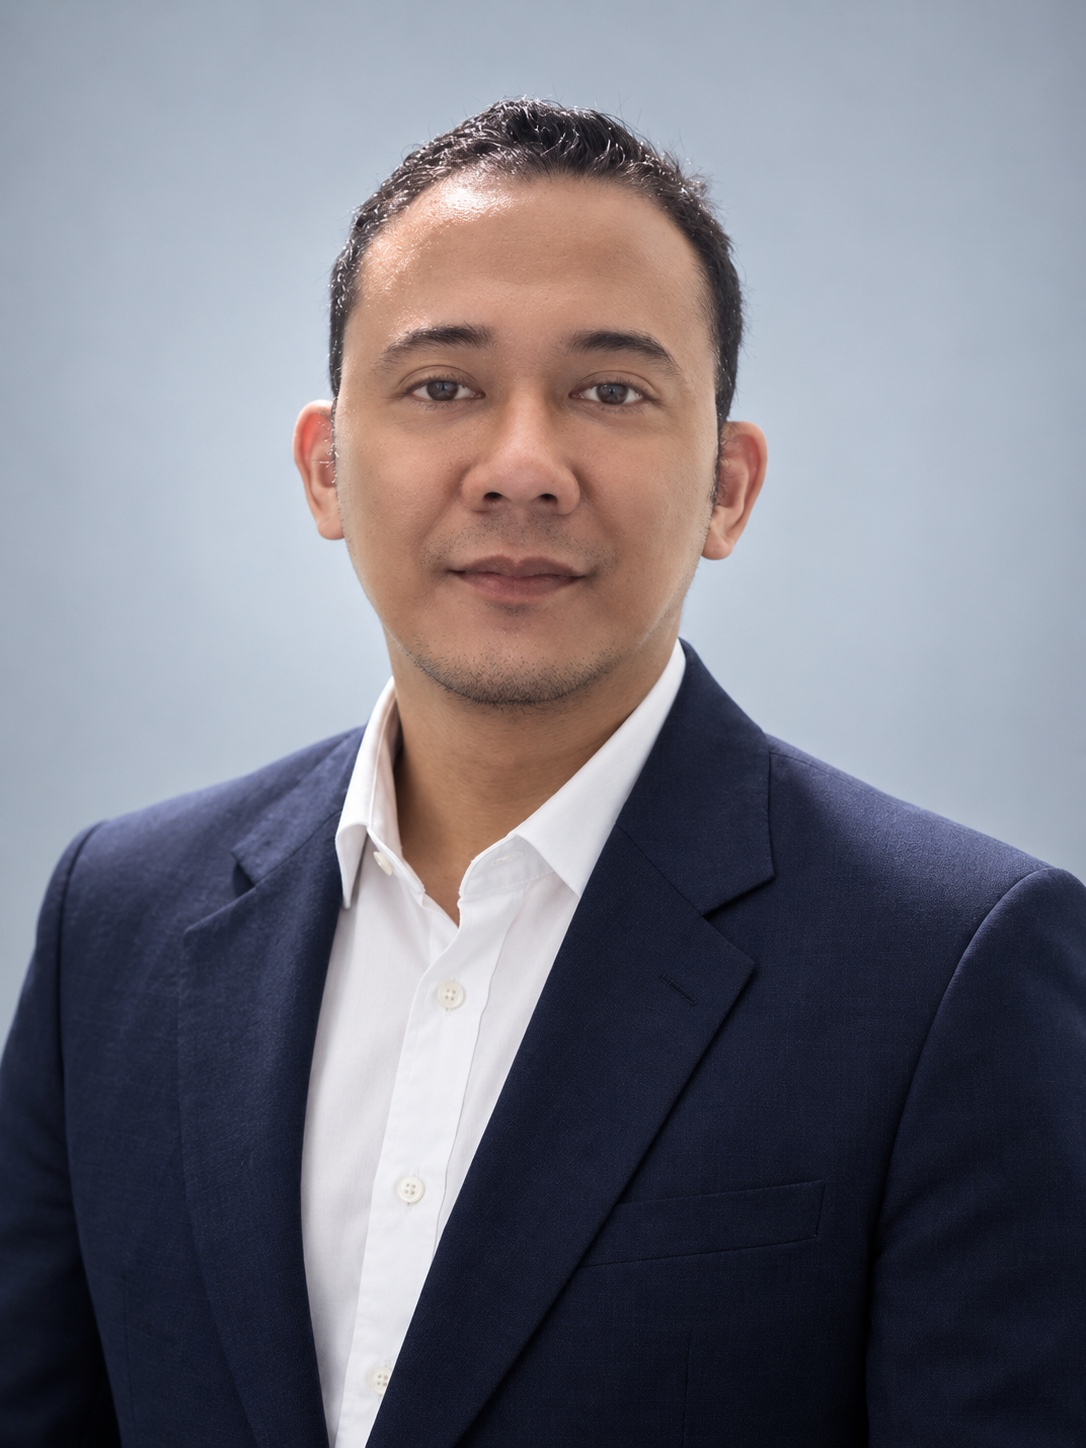
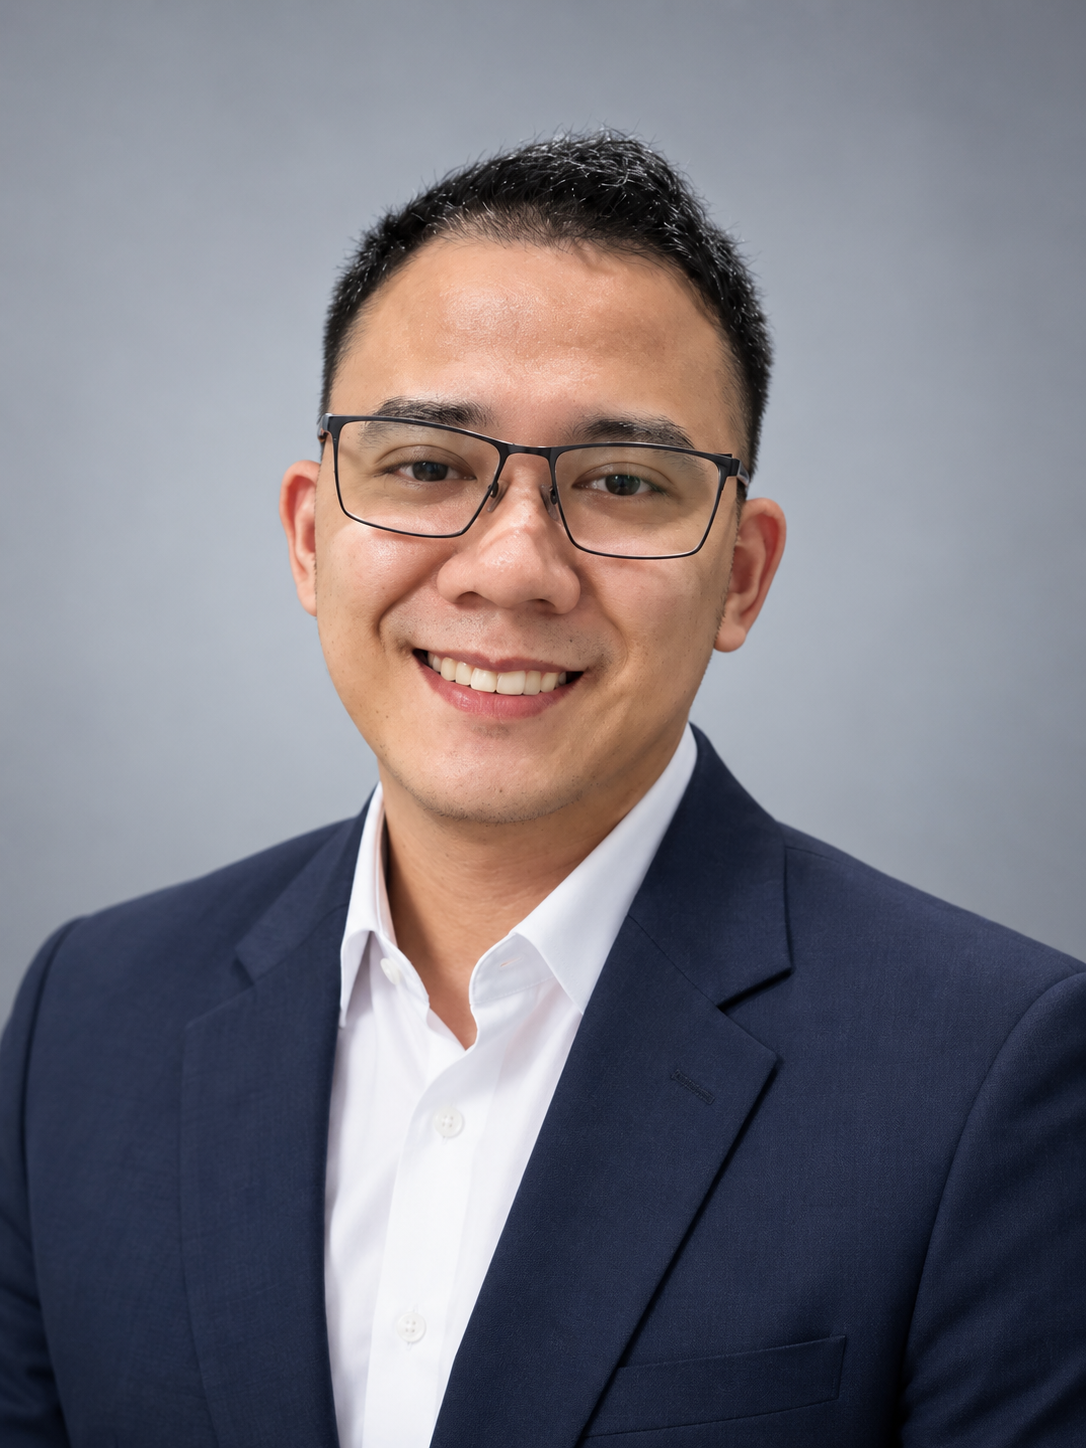
Improve portfolio design, content, testimonials, photo, and resume

diff --git a/index.html b/index.html
@@ -9,9 +9,28 @@
   <meta property="og:title" content="Jon Kevin Fanlo | Operations Virtual Assistant">
   <meta property="og:description" content="Business operations, customer support, CRM management, scheduling, sales support, and dependable operational follow-through.">
   <meta property="og:type" content="website">
+  <meta property="og:url" content="https://jonkfanlo.com/">
   <meta property="og:image" content="assets/jon-kevin-fanlo.png">
-  <title>Jon Kevin Fanlo | Operations Virtual Assistant</title>
+  <link rel="canonical" href="https://jonkfanlo.com/">
+  <title>Operations Virtual Assistant Philippines | Jon Kevin Fanlo</title>
   <link rel="stylesheet" href="style.css">
+  <script type="application/ld+json">
+  {
+    "@context": "https://schema.org",
+    "@type": "ProfilePage",
+    "mainEntity": {
+      "@type": "Person",
+      "name": "Jon Kevin Fanlo",
+      "url": "https://jonkfanlo.com/",
+      "image": "https://jonkfanlo.com/assets/jon-kevin-fanlo.png",
+      "jobTitle": "Operations Virtual Assistant",
+      "email": "mailto:jkfanlo.va@gmail.com",
+      "address": {"@type": "PostalAddress", "addressCountry": "PH", "addressRegion": "Cebu"},
+      "sameAs": ["https://www.linkedin.com/in/jon-k-fanlo1991/"],
+      "knowsAbout": ["Home service operations", "Customer support", "CRM management", "Scheduling and dispatch", "Sales support", "Invoicing"]
+    }
+  }
+  </script>
 </head>
 <body>
 <header class="site-header">
@@ -22,6 +41,7 @@
       <a href="#about">About</a>
       <a href="#services">Capabilities</a>
       <a href="#experience">Experience</a>
+      <a href="#testimonials">Testimonials</a>
       <a href="#parkmatic">Parkmatic</a>
       <a href="#contact">Contact</a>
     </nav>
@@ -33,11 +53,12 @@
     <div class="wrap hero-grid">
       <div>
         <p class="eyebrow">Operations Virtual Assistant · Business Operations · Customer Support</p>
-        <h1>I keep your operations organized, your customers supported, and your <span>sales moving.</span></h1>
-        <p class="hero-copy">I handle the day-to-day work that keeps service businesses running—customer communication, CRM management, warm-lead follow-up, scheduling, invoicing, sales support, and operational coordination—so owners can stay focused on growth.</p>
+        <h1>Operations Virtual Assistant in the Philippines who keeps <span>work moving.</span></h1>
+        <p class="hero-copy">I help service businesses stay organized through customer support, CRM management, scheduling, invoicing, warm-lead follow-up, and reliable operational coordination.</p>
         <div class="actions">
-          <a class="button button-primary" href="#experience">View my results</a>
-          <a class="button button-ghost" href="#contact">Let’s work together</a>
+          <a class="button button-primary" href="#experience">See what I’ve delivered</a>
+          <a class="button button-ghost" href="Jon_Kevin_Fanlo_Resume.pdf" download>Download résumé</a>
+          <a class="button button-text" href="#contact">Start a conversation →</a>
         </div>
       </div>
       <aside class="hero-profile" aria-label="Professional portrait of Jon Kevin Fanlo">
@@ -55,10 +76,8 @@
 
   <section class="metrics" aria-label="Selected professional results">
     <div class="wrap metric-grid">
-      <div class="metric"><strong>CAD $30.5K</strong><span>Tracked booked work supported at CleanerClean from July 31 to September 4, 2026</span></div>
+      <div class="metric"><strong>CAD $28.6K</strong><span>Gross booking activity documented across five weeks of CleanerClean records</span></div>
       <div class="metric"><strong>17%</strong><span>Customer retention achieved against an 8% target</span></div>
-      <div class="metric"><strong>35</strong><span>Team members supervised across three container yards</span></div>
-      <div class="metric"><strong>90%</strong><span>Fall-service contacts reached through calls, SMS, and email</span></div>
     </div>
   </section>
 
@@ -104,11 +123,30 @@
         <h2>Experience built around customers, coordination, and execution.</h2>
       </div>
       <div class="experience-list">
-        <article class="experience-item"><div class="role">Virtual Operations & Customer Service Assistant</div><div><h3>CleanerClean · Canada</h3><p>Supported daily operations across calls, email, SMS, lead follow-up, estimates, bookings, technician scheduling, invoices, payments, customer concerns, and CRM administration. Contributed to CAD $30,503 in tracked booked jobs from July 31 through September 4, 2026 while working across Housecall Pro, GoHighLevel, LeadConnector, ResponsiBid, HomeWorks CRM, and CrewCal.</p></div></article>
+        <article class="experience-item"><div class="role">Virtual Operations & Customer Service Assistant</div><div><h3>CleanerClean · Canada</h3><p>Supported daily operations across calls, email, SMS, lead follow-up, estimates, bookings, technician scheduling, invoices, payments, customer concerns, and CRM administration. Maintained daily records covering approximately CAD $28.6K in gross booking activity over five weeks and reached approximately 90% of the fall-service contact list through calls, SMS, and email. Worked across Housecall Pro, GoHighLevel, LeadConnector, ResponsiBid, HomeWorks CRM, and CrewCal.</p></div></article>
         <article class="experience-item"><div class="role">Virtual Operations & Customer Support</div><div><h3>Honey Windows / Northern Exteriors · Canada</h3><p>Managed customer communication, scheduling and dispatch support, reschedules, payment follow-ups, post-service feedback, CRM updates, reporting, SOP implementation, and file organization during a business transition.</p></div></article>
         <article class="experience-item"><div class="role">Customer Service & Retention Specialist</div><div><h3>Nations Info Corporation</h3><p>Handled approximately 40–50 inbound calls per shift and achieved a 17% retention rate against an 8% target by identifying customer needs, resolving concerns, and presenting appropriate retention options.</p></div></article>
-        <article class="experience-item"><div class="role">Container Yard Assistant Supervisor</div><div><h3>Diadem Terminal Maritime & Realty</h3><p>Supported operations across three container yards processing roughly 70–100 transactions per day and supervised about 35 personnel while coordinating yard workflow, equipment movement, staffing, documentation, and service requirements for major shipping-line clients.</p></div></article>
+        <article class="experience-item"><div class="role">Container Yard Assistant Supervisor</div><div><h3>Diadem Terminal Maritime & Realty</h3><p>Supervised approximately 35 personnel while supporting three container yards processing roughly 70–100 transactions per day. Coordinated yard workflow, equipment movement, staffing, documentation, and service requirements for major shipping-line clients.</p></div></article>
         <article class="experience-item"><div class="role">Sales Executive</div><div><h3>The Company Cebu</h3><p>Generated approximately PHP 5.1 million in sales in under six months and helped a newly opened coworking facility reach about 80% occupancy within four months through client acquisition, proposals, follow-up, and relationship management.</p></div></article>
+      </div>
+    </div>
+  </section>
+
+  <section id="testimonials" class="testimonials" aria-labelledby="testimonials-title">
+    <div class="wrap">
+      <div class="section-head">
+        <p class="eyebrow">Client feedback</p>
+        <h2 id="testimonials-title">Trusted by home-service business owners.</h2>
+      </div>
+      <div class="testimonial-grid">
+        <figure class="testimonial-card">
+          <blockquote>“You have been great to work with, bring a fantastic mindset, and have shown an eager willingness to learn.”</blockquote>
+          <figcaption><strong>Brad Elias</strong><span>Owner, CleanerClean</span></figcaption>
+        </figure>
+        <figure class="testimonial-card">
+          <blockquote>“You’re really great at what you do. You’re awesome.”</blockquote>
+          <figcaption><strong>Maxton Kernya</strong><span>Owner, Northern Exterior · Co-owner, Honey Windows</span></figcaption>
+        </figure>
       </div>
     </div>
   </section>
@@ -119,12 +157,14 @@
         <p class="eyebrow">Founder experience</p>
         <h2>Parkmatic Systems — hands-on business ownership and technical operations.</h2>
       </div>
-      <div class="parkmatic-grid">
+      <div class="parkmatic-grid compact-founder">
         <div class="parkmatic-story">
           <p class="role-kicker">Founder · Head of Operations | Mechanical & Vertical Parking Systems</p>
-          <p>Co-founded and operated Parkmatic Systems, a project-based business focused on the sales, installation, maintenance, and servicing of mechanical and vertical parking systems in the Philippines.</p>
-          <p>Although the business was lower-volume than a home-service operation, each project demanded significantly more technical and logistical coordination. I worked hands-on across sales, client consultation, quotations, procurement, transportation, site preparation, installation, commissioning, troubleshooting, maintenance, and after-sales support.</p>
-          <p>Projects involved heavy mechanical equipment weighing several tons, requiring careful coordination of technicians, suppliers, logistics providers, equipment, site requirements, safety, and customer expectations.</p>
+          <p>Co-founded and operated a project-based parking-systems business, managing client consultation, quotations, procurement, logistics, technicians, installation, commissioning, maintenance, and after-sales support.</p>
+          <details>
+            <summary>Read more about my founder experience</summary>
+            <p>Projects involved multi-ton mechanical equipment and required close coordination of suppliers, transportation, manpower, site readiness, safety requirements, technical troubleshooting, and customer expectations.</p>
+          </details>
         </div>
         <aside class="achievement-card">
           <p class="eyebrow">Featured achievement</p>
@@ -133,12 +173,6 @@
         </aside>
       </div>
 
-      <div class="responsibility-grid">
-        <article><h3>End-to-end ownership</h3><p>Managed projects from prospecting and sales through procurement, delivery, installation, commissioning, maintenance, and customer support.</p></article>
-        <article><h3>Technical operations</h3><p>Participated directly in installation, testing, troubleshooting, repair, and preventive maintenance of mechanical parking equipment.</p></article>
-        <article><h3>Technician development</h3><p>Helped train technicians through months of technical and hands-on preparation, with periodic retraining to maintain installation and maintenance competency.</p></article>
-        <article><h3>Heavy-equipment logistics</h3><p>Coordinated transportation, delivery schedules, manpower, equipment, supplier requirements, and site readiness for multi-ton systems.</p></article>
-      </div>
     </div>
   </section>
 
@@ -173,7 +207,8 @@
         <p>I’m open to long-term remote Operations VA, operations coordination, customer support, sales-support, and administrative roles across any time zone. My strength is organized follow-through, customer care, and operational execution rather than high-volume cold calling.</p>
       </div>
       <div class="contact-actions">
-        <a class="button button-primary" href="mailto:jkfanlo.va@gmail.com">Email me</a>
+        <a class="button button-primary" href="mailto:jkfanlo.va@gmail.com?subject=15-minute%20intro%20call">Request a 15-min intro call</a>
+        <a class="button button-ghost" href="Jon_Kevin_Fanlo_Resume.pdf" download>Download résumé</a>
         <a class="button button-ghost" href="https://www.linkedin.com/in/jon-k-fanlo1991/" target="_blank" rel="noopener">LinkedIn</a>
         <a class="button button-ghost" href="https://wa.me/639247519178" target="_blank" rel="noopener">WhatsApp</a>
       </div>

diff --git a/style.css b/style.css
@@ -76,6 +76,8 @@ a { color: inherit; }
 .button:hover { transform: translateY(-2px); }
 .button-primary { color: #071525; background: var(--cyan); box-shadow: 0 12px 28px rgba(52,199,216,.24); }
 .button-ghost { color: var(--white); border: 1px solid rgba(255,255,255,.35); }
+.button-text { min-height: 50px; padding-inline: 8px; color: #d8e5f4; }
+.button-text:hover { color: var(--white); }
 .availability { padding: 28px; background: rgba(255,255,255,.08); border: 1px solid rgba(255,255,255,.13); border-radius: var(--radius); box-shadow: var(--shadow); }
 .availability strong { display: block; margin-bottom: 8px; font-size: 1.25rem; }
 .availability p { margin: 0; color: #c7d7e8; }
@@ -95,7 +97,7 @@ section { padding: 92px 0; }
 .section-head p { margin: 0; color: var(--muted); }
 
 .metrics { margin-top: -32px; position: relative; z-index: 3; padding: 0; }
-.metric-grid { display: grid; grid-template-columns: repeat(4, 1fr); background: var(--white); border: 1px solid var(--line); border-radius: var(--radius); box-shadow: var(--shadow); overflow: hidden; }
+.metric-grid { display: grid; grid-template-columns: repeat(2, 1fr); background: var(--white); border: 1px solid var(--line); border-radius: var(--radius); box-shadow: var(--shadow); overflow: hidden; }
 .metric { padding: 28px; border-right: 1px solid var(--line); }
 .metric:last-child { border-right: 0; }
 .metric strong { display: block; color: var(--blue); font-size: 1.9rem; line-height: 1.15; letter-spacing: -.04em; }
@@ -121,6 +123,15 @@ section { padding: 92px 0; }
 .experience-item h3 { margin: 0 0 8px; font-size: 1.25rem; }
 .experience-item p { margin: 0; color: var(--muted); }
 
+.testimonials { background: var(--white); }
+.testimonial-grid { display: grid; grid-template-columns: repeat(2, 1fr); gap: 22px; }
+.testimonial-card { position: relative; margin: 0; padding: 34px; background: var(--paper); border: 1px solid var(--line); border-radius: var(--radius); box-shadow: 0 12px 30px rgba(8,21,38,.06); }
+.testimonial-card::before { content: "“"; position: absolute; top: 6px; right: 24px; color: rgba(47,125,244,.14); font: 700 5.5rem/1 Georgia, serif; }
+.testimonial-card blockquote { position: relative; margin: 0 0 24px; color: var(--ink); font-size: 1.15rem; line-height: 1.65; }
+.testimonial-card figcaption strong, .testimonial-card figcaption span { display: block; }
+.testimonial-card figcaption strong { color: var(--blue); }
+.testimonial-card figcaption span { margin-top: 3px; color: var(--muted); font-size: .88rem; }
+
 .tool-cloud { display: flex; flex-wrap: wrap; gap: 12px; }
 .tool-cloud span { padding: 10px 16px; background: var(--white); border: 1px solid var(--line); border-radius: 999px; color: #34465d; font-size: .9rem; font-weight: 700; }
 
@@ -135,7 +146,6 @@ section { padding: 92px 0; }
   .hero-grid, .about-grid, .contact-panel { grid-template-columns: 1fr; }
   .metric-grid { grid-template-columns: repeat(2, 1fr); }
   .metric:nth-child(2) { border-right: 0; }
-  .metric:nth-child(-n+2) { border-bottom: 1px solid var(--line); }
   .card-grid { grid-template-columns: 1fr 1fr; }
   .experience-item { grid-template-columns: 1fr; gap: 8px; }
   .hero-profile { margin: 10px auto 0; }
@@ -168,6 +178,9 @@ section { padding: 92px 0; }
 .parkmatic-story { padding: 38px; background: rgba(255,255,255,.06); border: 1px solid rgba(255,255,255,.12); border-radius: var(--radius); }
 .parkmatic-story p { color: #cad8e8; }
 .parkmatic-story p:last-child { margin-bottom: 0; }
+.parkmatic-story details { margin-top: 22px; padding-top: 18px; border-top: 1px solid rgba(255,255,255,.13); }
+.parkmatic-story summary { color: var(--cyan); font-weight: 800; cursor: pointer; }
+.parkmatic-story details p { margin-bottom: 0; }
 .role-kicker { margin-top: 0; color: var(--cyan) !important; font-weight: 800; }
 .achievement-card { padding: 38px; background: linear-gradient(145deg, #123a5b, #10223a); border: 1px solid rgba(255,255,255,.13); border-radius: var(--radius); box-shadow: var(--shadow); }
 .achievement-card h3 { margin: 0 0 14px; font-size: 1.65rem; line-height: 1.18; }
@@ -180,7 +193,7 @@ section { padding: 92px 0; }
 .skill-columns h3 { margin: 0 0 18px; font-size: 1.15rem; }
 
 @media (max-width: 850px) {
-  .parkmatic-grid, .skill-columns { grid-template-columns: 1fr; }
+  .parkmatic-grid, .skill-columns, .testimonial-grid { grid-template-columns: 1fr; }
   .responsibility-grid { grid-template-columns: repeat(2, 1fr); }
 }
 
